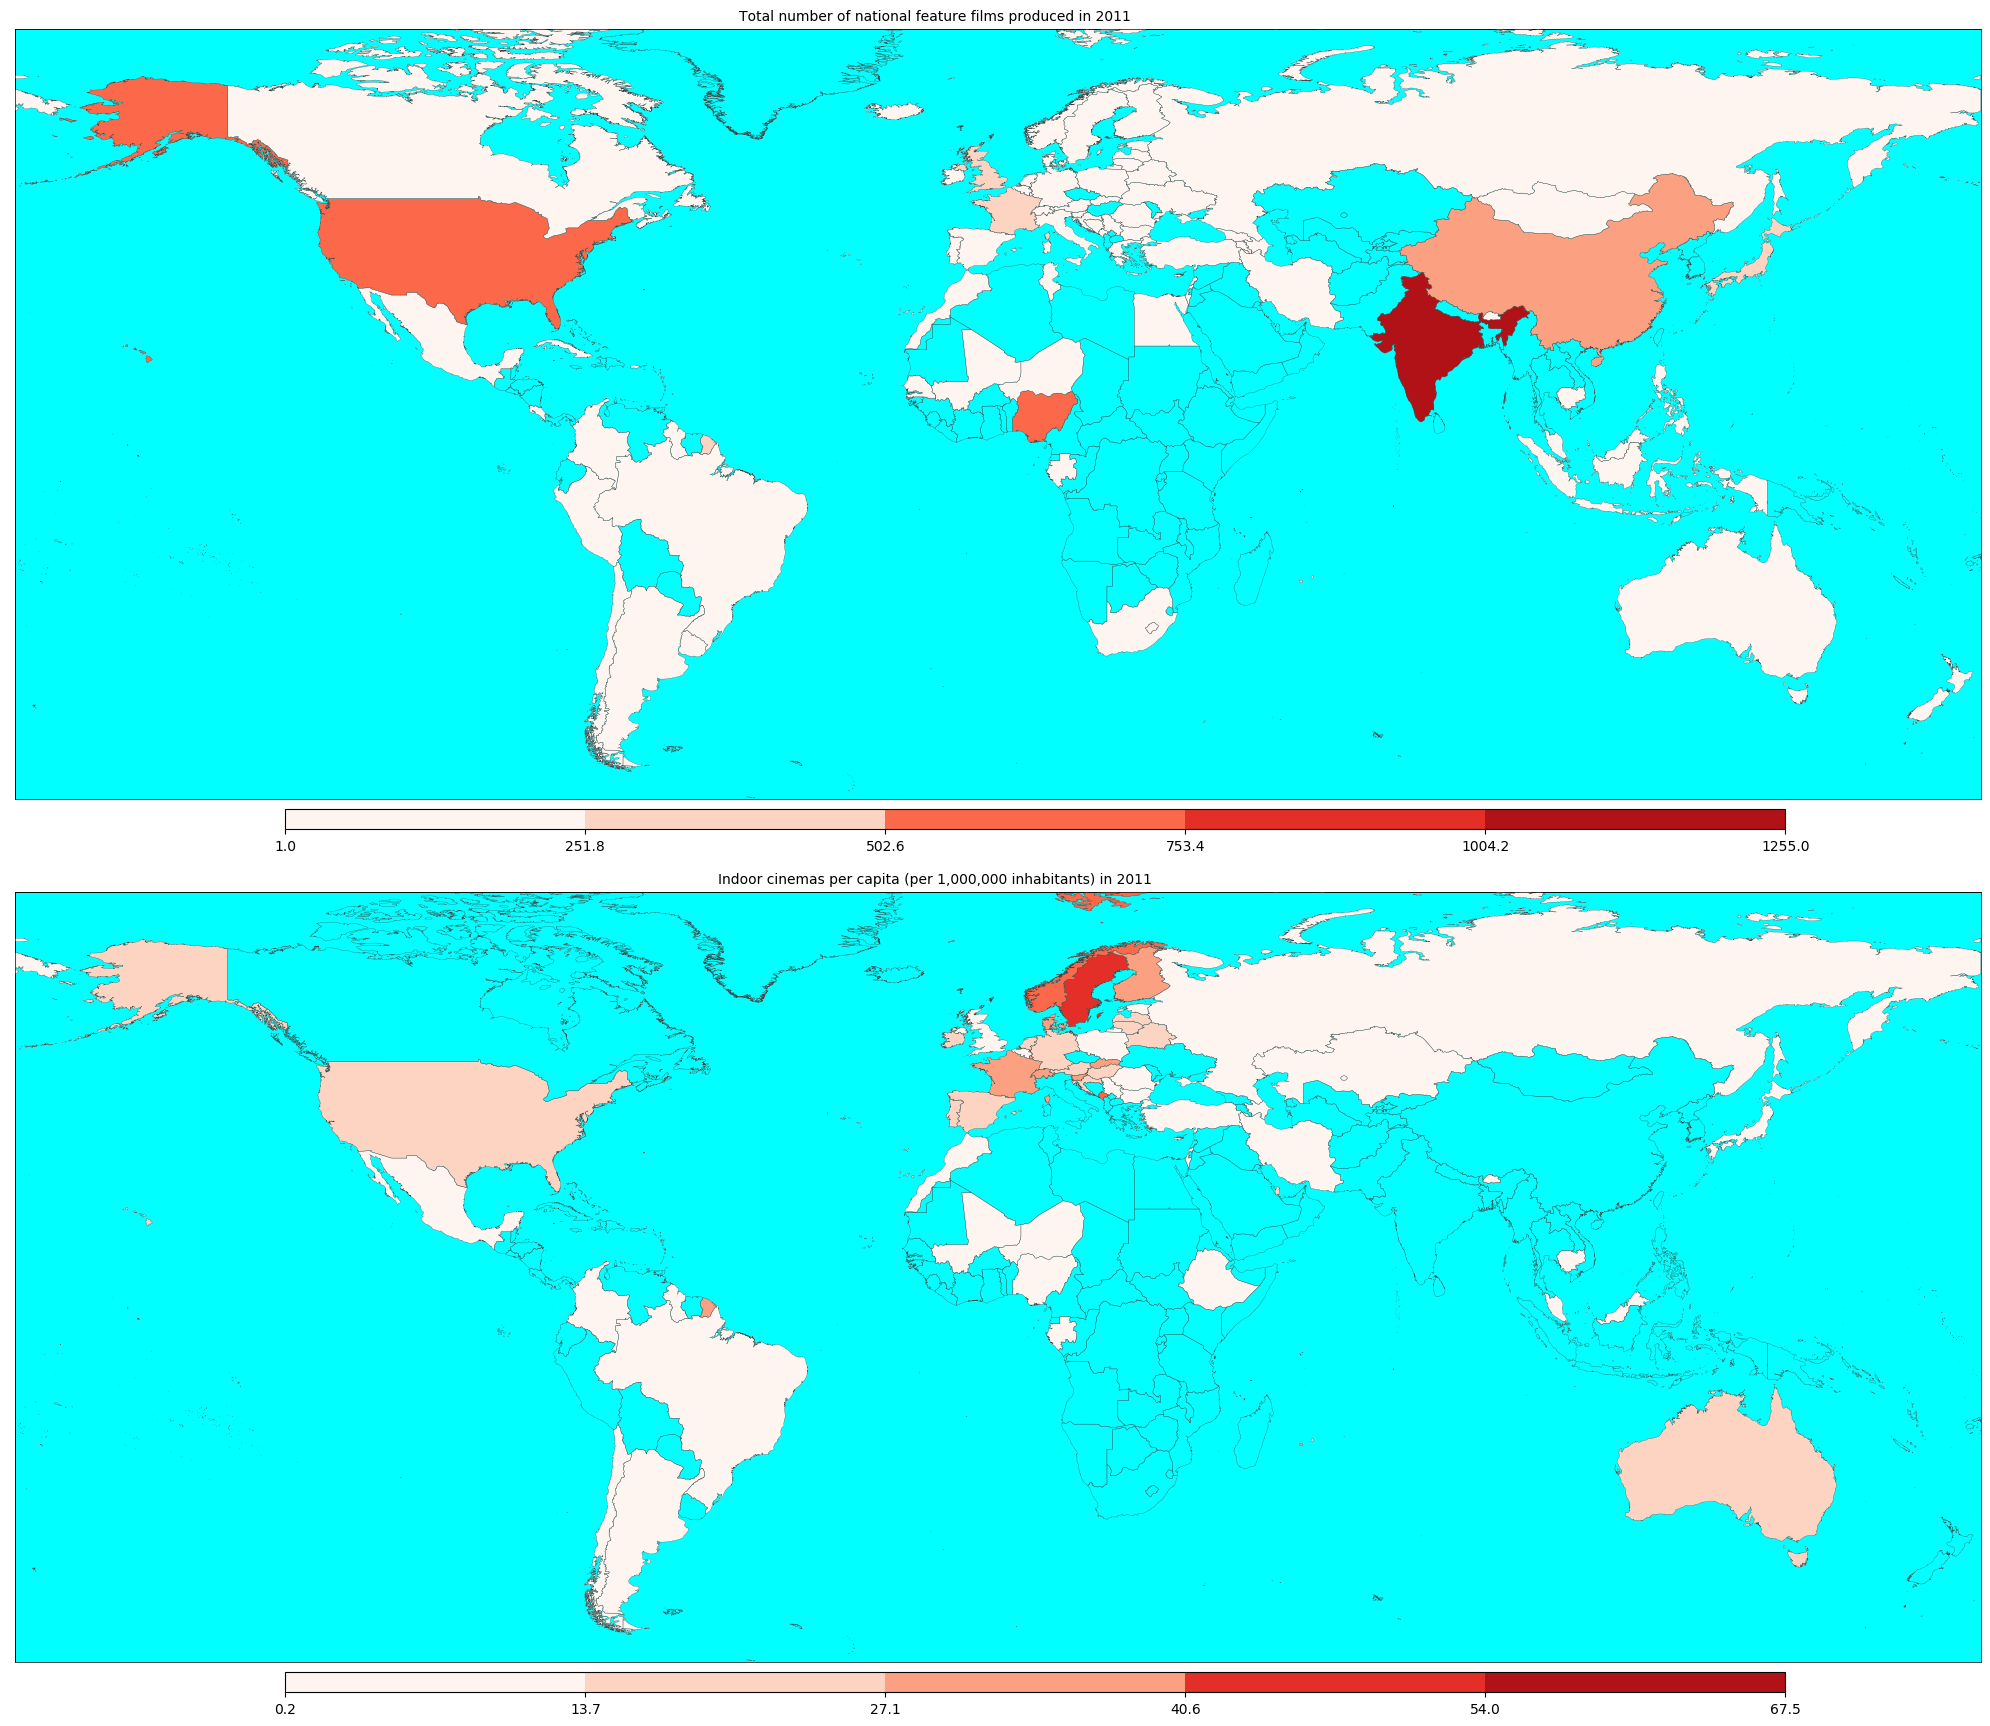
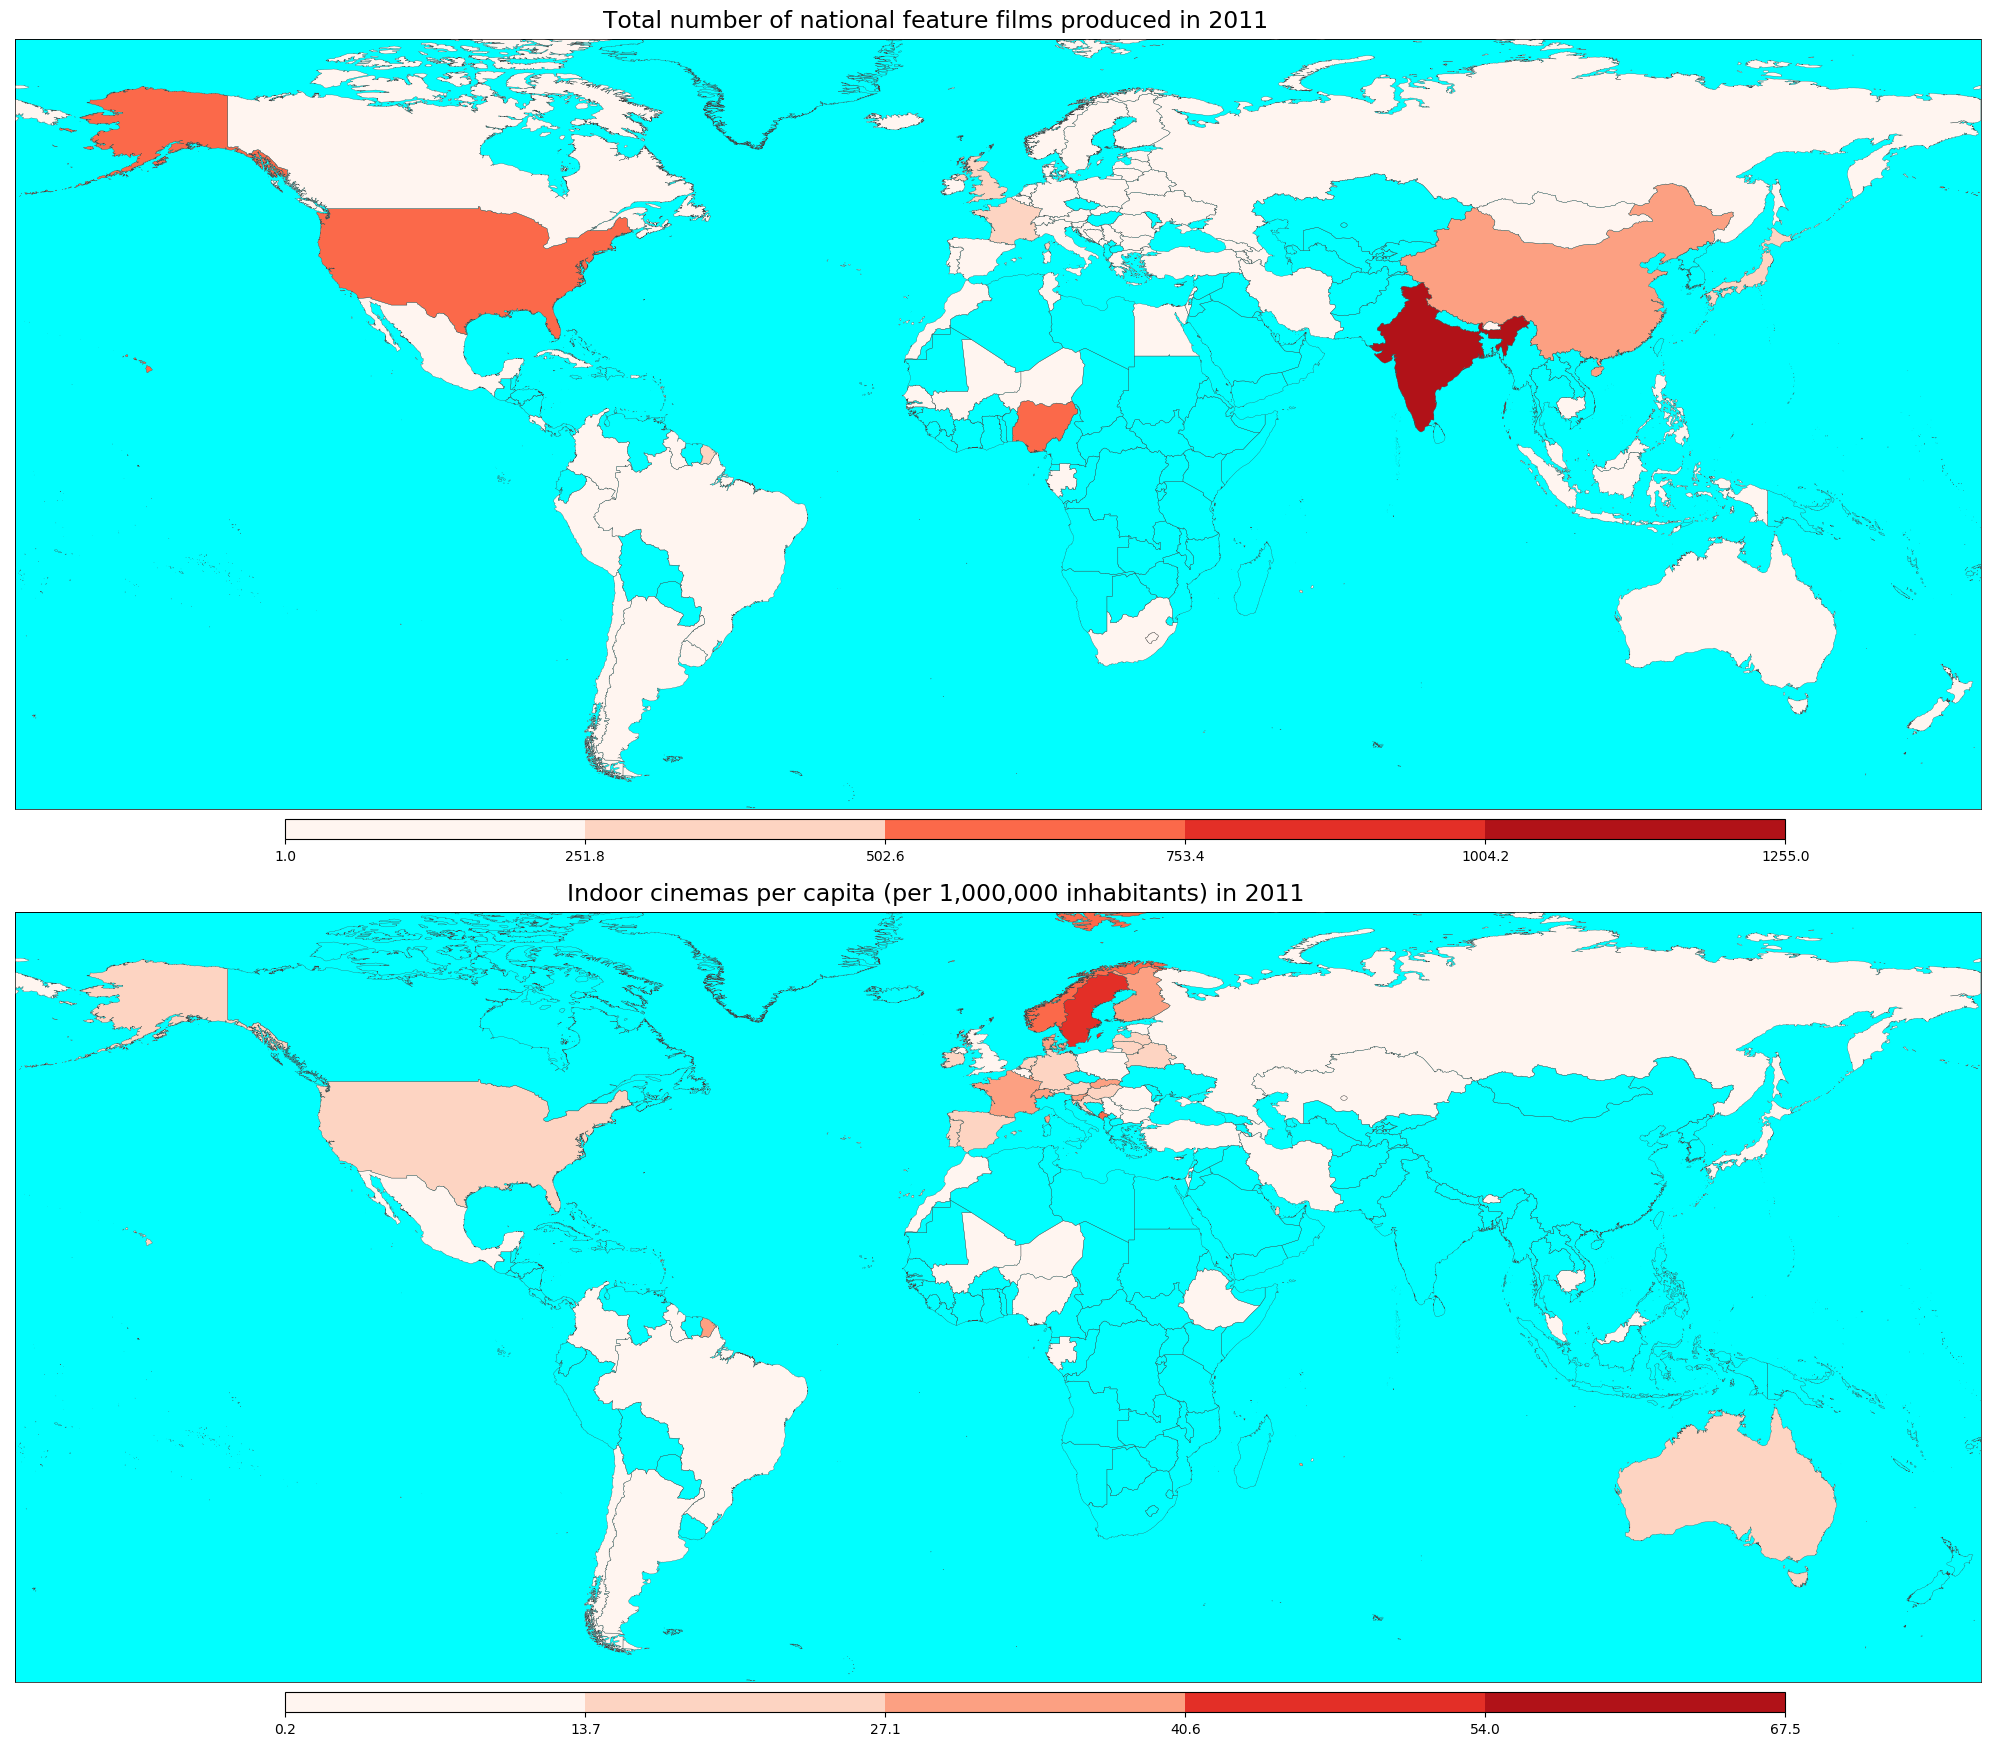
Increase title font size of world cinema

diff --git a/plot_movie.py b/plot_movie.py
@@ -16,8 +16,8 @@ COUNTRY_MOVIE_FILE = "./asset/unesco_movie_producing.csv"
 SHAPE_FILE = "./asset/natural_earth/ne_10m_admin_0_countries"  ## w/o extension
 
 REGION = 'world'
-INDICATOR = 'Total number of national feature films produced'
-# INDICATOR = 'Indoor cinemas per capita (per 1,000,000 inhabitants)'
+# INDICATOR = 'Total number of national feature films produced'
+INDICATOR = 'Indoor cinemas per capita (per 1,000,000 inhabitants)'
 YEAR = 2016
 TITLE = "{} in {}".format(INDICATOR, YEAR)
 TEXT_OFFSET = 0
@@ -72,7 +72,7 @@ if __name__ == '__main__':
     ## Figure
     fig = plt.figure(figsize=FIGURE_SIZE)
     ax = fig.add_subplot(111, frame_on=False)
-    fig.suptitle(TITLE, fontsize=10, y=.90)
+    fig.suptitle(TITLE, fontsize=17, y=.91)
 
     # Control the position of the square. Give the coordinate of 2 corners
     if REGION == 'world':
